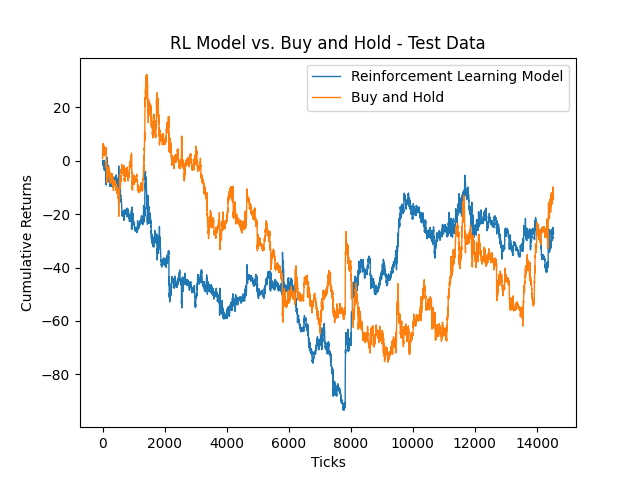
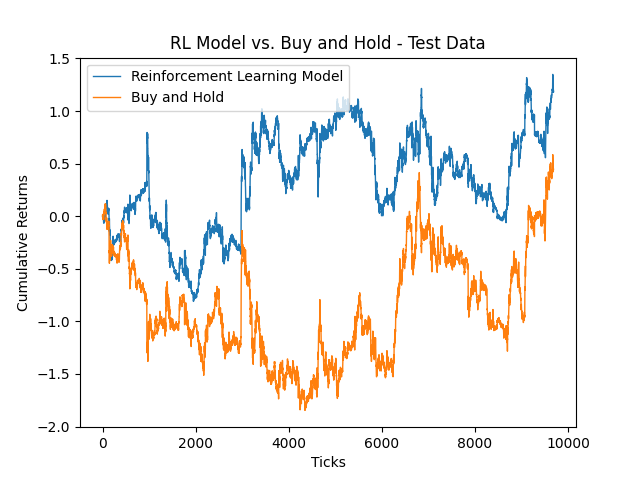
Added results generated with optimizes paramenters

diff --git a/source/trader/Tiny RL/test.py b/source/trader/Tiny RL/test.py
@@ -1,0 +1,150 @@
+import numpy as np
+import pandas as pd 
+import matplotlib.pyplot as plt 
+
+'''
+    Sharpe Ratio
+'''
+def sharpe_ratio(rets):
+    return rets.mean() / rets.std()
+
+'''
+    Ft(x^t.theta) position on the asset
+'''
+def positions(x, theta):
+    M = len(theta) - 2
+    T = len(x)
+    Ft = np.zeros(T)
+    for t in range(M, T):
+        xt = np.concatenate([[1], x[t - M:t], [Ft[t - 1]]])
+        Ft[t] = np.tanh(np.dot(theta, xt))
+    return Ft
+
+'''
+    Returns on current asset allocation
+'''
+def returns(Ft, x, delta):
+    T = len(x)
+    rets = Ft[0:T - 1] * x[1:T] - delta * np.abs(Ft[1:T] - Ft[0:T - 1])
+    return np.concatenate([[0], rets])
+
+'''
+    Gradient Ascent to maximize Sharpe Ratio
+'''
+def gradient(x, theta, delta):
+    Ft = positions(x, theta)
+    R = returns(Ft, x, delta)
+    T = len(x)
+    M = len(theta) - 2
+    
+    A = np.mean(R)
+    B = np.mean(np.square(R))
+    S = A / np.sqrt(B - A ** 2)
+
+    dSdA = S * (1 + S ** 2) / A
+    dSdB = -S ** 3 / 2 / A ** 2
+    dAdR = 1. / T
+    dBdR = 2. / T * R
+    
+    grad = np.zeros(M + 2)  # initialize gradient
+    dFpdtheta = np.zeros(M + 2)  # for storing previous dFdtheta
+    
+    for t in range(M, T):
+        xt = np.concatenate([[1], x[t - M:t], [Ft[t-1]]])
+        dRdF = -delta * np.sign(Ft[t] - Ft[t-1])
+        dRdFp = x[t] + delta * np.sign(Ft[t] - Ft[t-1])
+        dFdtheta = (1 - Ft[t] ** 2) * (xt + theta[-1] * dFpdtheta)
+        dSdtheta = (dSdA * dAdR + dSdB * dBdR[t]) * (dRdF * dFdtheta + dRdFp * dFpdtheta)
+        grad = grad + dSdtheta
+        dFpdtheta = dFdtheta
+
+        
+    return grad, S
+
+'''
+    Training Reinforment 
+'''
+def train(x, epochs=2000, M=8, commission=0.0025, learning_rate = 0.3):
+    theta = np.random.rand(M + 2)
+    sharpes = np.zeros(epochs) # store sharpes over time
+    for i in range(epochs):
+        grad, sharpe = gradient(x, theta, commission)
+        theta = theta + grad * learning_rate
+        sharpes[i] = sharpe
+        print(f"Epoch {i+1} finished: Sharpe = {sharpe}")        
+    
+    print("finished training")
+    return theta, sharpes
+
+#stocks = ["BBAS3", "BBDC4", "ITUB4", "PETR4", "VALE3"]
+#portfolio = np.array([pd.read_csv(f"input/{stock}.csv", sep="\t") for stock in stocks], dtype=object)
+#rets = [stock['<CLOSE>'].diff()[1:] for stock in portfolio]
+
+name = "VALE3"
+
+# Load stock to trains TinyRL
+stock = pd.read_csv(f"input/{name}.csv", sep="\t")
+rets = stock['<CLOSE>'].diff()[1:]
+x = np.array(rets)
+
+N = int(4*len(x)/5)         # Number of Training Samples
+P = len(x) - N              # Number of Test Samples
+x_train = x[-(N+P):-P]      # Training Samples
+x_test = x[-P:]             # Test Samples
+std = np.std(x_train)
+mean = np.mean(x_train)
+
+x_train = (x_train - mean) / std    
+x_test = (x_test - mean) / std
+'''
+# Train Tiny RL in training samples
+np.random.seed(0)
+theta, sharpes = train(x_train, epochs=200, M=8, commission=0.0025, learning_rate=0.3)
+
+with open('fittest.txt', 'w') as f:
+    print('Fittest Thetas Data.\n', file=f)
+    print(f"Thetas optimized {name}: {theta}", file=f)
+    print(f"Sharpes associated: {sharpes[-1]}\n", file=f)
+
+# Plot Sharpe Ration Convergence
+plt.figure()
+plt.plot(sharpes)
+plt.xlabel('Epoch Number')
+plt.ylabel('Sharpe Ratio')
+plt.show()
+'''
+
+theta = [0.00636868, 0.99213169, 0.96710875, 1.03625064, 0.90010168, 0.93073166, 0.02889846, 0.0408688,  0.18620258, 1.4629834]
+
+# Plot Training Returns
+train_returns = returns(positions(x_train, theta), x_train, 0.0025)
+plt.figure()
+plt.plot(np.multiply((train_returns).cumsum(),std), label="Reinforcement Learning Model", linewidth=1)
+plt.plot(np.multiply(x_train.cumsum(),std), label="Buy and Hold", linewidth=1)
+plt.xlabel('Ticks')
+plt.ylabel('Cumulative Returns')
+plt.legend()
+plt.title("RL Model vs. Buy and Hold - Training Data")
+plt.show()
+
+# Plot Test Returns
+test_returns = returns(positions(x_test, theta), x_test, 0.0025)
+plt.figure()
+plt.plot(np.multiply((test_returns).cumsum(),std), label="Reinforcement Learning Model", linewidth=1)
+plt.plot(np.multiply(x_test.cumsum(),std), label="Buy and Hold", linewidth=1)
+plt.xlabel('Ticks')
+plt.ylabel('Cumulative Returns')
+plt.legend()
+plt.title("RL Model vs. Buy and Hold - Test Data")
+plt.show()
+
+'''
+    r(t) = z(t)/z(t-1) - 1
+    1.09713744 0.60594239 0.59348084 0.54156889 0.46499409 0.59890041 0.51110019 0.82695253 0.83205858 0.84740365
+    1.10547124 0.60358536 0.59118186 0.54112218 0.46525614 0.59642542 0.51784977 0.82749494 0.82801721 0.85438729
+    1.10148825 0.60214377 0.59195473 0.54417474 0.466907   0.59521412 0.51975879 0.82717124 0.8254497  0.85528494
+    1.09312483 0.60564405 0.58744487 0.54238416 0.47314902 0.6016878 0.51622663 0.82144101 0.82993403 0.85242226
+
+    r(t) = (z(t) - z(t-1))/std(r)
+    0.00636868 0.99213169 0.96710875 1.03625064 0.90010168 0.93073166 0.02889846 0.0408688  0.18620258 1.4629834
+'''

diff --git a/source/trader/Tiny RL/agent.py b/source/trader/Tiny RL/agent.py
@@ -45,7 +45,7 @@ for i in range(len(stocks)):
     x_test[i] = (x_test[i] - means[i]) / stds[i]
 
 # Hyper-parameters
-epochs = 2000
+epochs = 1000
 learning_rate = 0.3
 commission = 0.0025
 capital = 10000
